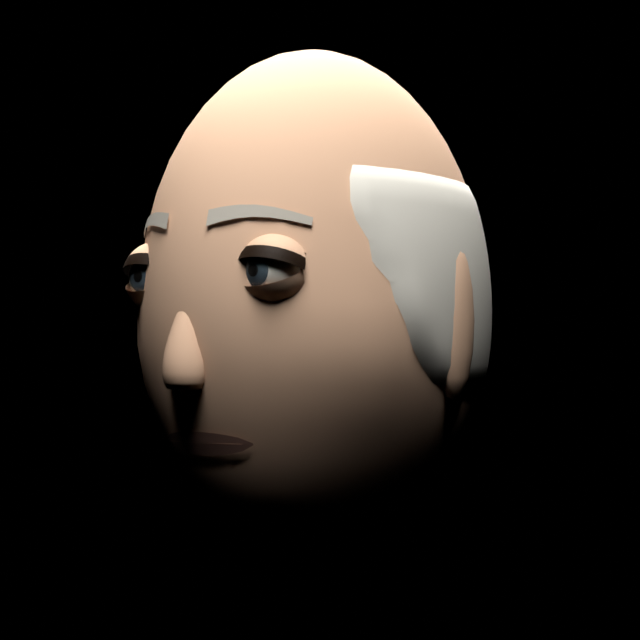
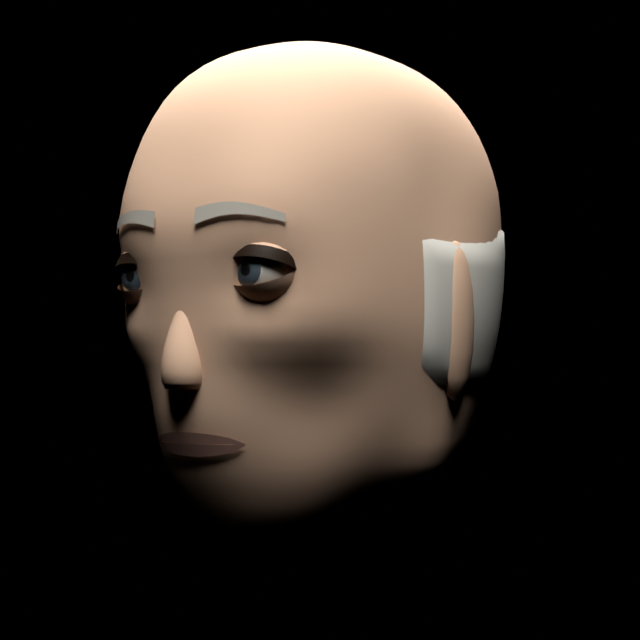
Design: head forms v4 (superellipsoid skull, anatomy fields, per-character features)
Claude-Session: https://claude.ai/code/session_01W37kuJaPfCxGNG6Qm9m3cN

Changed region(s): [[0.1562, 0.0625, 0.8125, 0.8125]]

diff --git a/film/design/rig/heads.py b/film/design/rig/heads.py
@@ -31,8 +31,8 @@ PALETTE = os.path.join(os.path.dirname(HERE), "palette.json")
 
 # Head ellipsoid half-sizes in metres (x half-width, y half-depth, z half-height), jaw taper, extras.
 SPEC = {
-    "NOOR":   dict(key="noor",   r=(0.074, 0.094, 0.114), jaw=0.72, chin_fwd=0.006, eye_r=0.0135, brow_th=0.0042, mouth_w=0.024, lip_th=1.0),
-    "KAI":    dict(key="kai",    r=(0.077, 0.095, 0.115), jaw=0.78, chin_fwd=0.006, eye_r=0.0135, brow_th=0.0048, mouth_w=0.025, lip_th=0.9),
+    "NOOR":   dict(key="noor",   r=(0.074, 0.094, 0.114), jaw=0.70, chin_fwd=0.006, eye_r=0.0135, brow_th=0.0042, mouth_w=0.024, lip_th=1.0),
+    "KAI":    dict(key="kai",    r=(0.077, 0.095, 0.115), jaw=0.82, chin_fwd=0.006, eye_r=0.0135, brow_th=0.0048, mouth_w=0.025, lip_th=0.9),
     "BEA":    dict(key="bea",    r=(0.079, 0.093, 0.112), jaw=0.80, chin_fwd=0.004, eye_r=0.0135, brow_th=0.0042, mouth_w=0.026, lip_th=1.15,
                   sclera="#F3F0E8", lid_ink="#0E0907", lid_albedo="#7C5642", ink_band=0.42),
     "WALTER": dict(key="walter", r=(0.071, 0.095, 0.120), jaw=0.72, chin_fwd=0.007, eye_r=0.0130, brow_th=0.0060, mouth_w=0.024, lip_th=0.75),
@@ -158,13 +158,44 @@ def _sphere(r, segs=24, rings=16, pole_y=False):
     return bm
 
 
-class Skull:
-    """Analytic head surface: an ellipsoid whose half-width tapers toward the jaw."""
+# Anatomy as smooth displacement fields on top of the base ellipsoid (metres, head-local).
+# Each entry: (x, z, sigma, push) with the centre on the face (y found on the base surface), mirrored in x
+# when x != 0. "push" moves the surface out (+) or in (-) along its normal.
+ANATOMY = [
+    (0.030, 0.030, 0.018, 0.0035),    # brow ridge
+    (0.000, 0.030, 0.012, 0.0020),    # glabella
+    (0.032, 0.008, 0.011, -0.0035),   # eye socket (shallow by design: top light)
+    (0.048, -0.012, 0.016, 0.0040),   # cheekbone
+    (0.000, -0.055, 0.020, 0.0040),   # muzzle round the mouth
+    (0.000, -0.098, 0.013, 0.0040),   # chin
+    (0.066, 0.050, 0.020, -0.0030),   # temples
+    (0.060, -0.072, 0.016, 0.0060),   # jaw angle
+    (0.032, -0.010, 0.007, 0.0012),   # under-eye fullness
+]
+CHARACTER_ANATOMY = {
+    "NOOR":   [(0.050, -0.010, 0.014, 0.0020), (0.046, -0.045, 0.014, -0.0015),   # defined cheekbones, slight hollow
+               (0.060, -0.074, 0.016, -0.0045), (0.000, -0.100, 0.012, -0.0010)],  # softer, tapered jaw and chin
+    "KAI":    [(0.045, -0.045, 0.016, 0.0020), (0.000, -0.098, 0.012, -0.0015)],   # young: full cheeks, softer chin
+    "BEA":    [(0.045, -0.040, 0.018, 0.0035), (0.032, -0.012, 0.008, 0.0022)],    # full cheeks; tired under-eyes
+    "WALTER": [(0.030, 0.030, 0.016, 0.0020), (0.046, -0.040, 0.014, -0.0040),     # heavier brow; hollow cheeks
+               (0.050, -0.088, 0.012, 0.0030), (0.032, -0.012, 0.008, 0.0018),      # jowls; under-eye bags
+               (0.000, 0.070, 0.030, 0.0015)],                                      # high forehead
+}
 
-    def __init__(self, s):
+
+class Skull:
+    """Head surface: a jaw-tapered ellipsoid plus smooth anatomical displacement fields."""
+
+    def __init__(self, s, name=None):
         self.rx, self.ry, self.rz = s["r"]
         self.jaw = s["jaw"]
         self.chin_fwd = s["chin_fwd"]
+        self.fields = []
+        for (x, z, sig, push) in ANATOMY + CHARACTER_ANATOMY.get(name, []):
+            for sx in ((1, -1) if x else (1,)):
+                cx = sx * x
+                c = Vector((cx, self._base_front_y(cx, z), z))
+                self.fields.append((c, sig, push))
 
     def taper(self, zn):  # zn = z / rz in [-1, 1]
         if zn >= -0.15:
@@ -172,22 +203,57 @@ class Skull:
         t = min(1.0, (-0.15 - zn) / 0.85)
         return 1.0 - (1.0 - self.jaw) * t * t
 
-    def shape(self, v):
-        """Map a unit-sphere point to the head surface."""
+    def _base(self, v):
+        # superellipsoid: squarer than an egg (boxier cranium, flatter face plane, firmer jaw)
+        zz = v.z
+        pw = 2.0 + 0.75 * max(0.0, min(1.0, (zz + 0.2) / 0.6)) + 0.3 * max(0.0, min(1.0, (-zz - 0.3) / 0.4))
+        sc = (abs(v.x) ** pw + abs(v.y) ** pw + abs(v.z) ** pw) ** (-1.0 / pw)
+        v = v * sc
         zn = v.z
         x = v.x * self.rx * self.taper(zn)
         y = v.y * self.ry
         if zn < -0.5 and v.y > 0:
             y += self.chin_fwd * (-0.5 - zn) * 2 * v.y
-        if -0.45 < zn < 0.1 and v.y > 0.2:  # cheekbones
-            x *= 1.0 + 0.05 * math.cos((zn + 0.175) / 0.275 * math.pi / 2)
-        return Vector((x, y, v.z * self.rz))
+        z = v.z * self.rz
+        # jaw underside and the back of the jaw: flatten the bottom of the egg toward the neck
+        if z < -0.07 and y < 0.05:
+            k = min(1.0, (0.05 - y) / 0.06)
+            z = z + (-0.07 - z) * 0.6 * k
+        if y < 0 and z > -0.05:  # fuller cranium behind
+            y *= 1.06
+        return Vector((x, y, z))
 
-    def front_y(self, x, z):
+    def _base_front_y(self, x, z):
         zn = max(-0.999, min(0.999, z / self.rz))
         w = self.rx * self.taper(zn)
         q = 1 - (x / w) ** 2 - zn ** 2
         return self.ry * math.sqrt(max(q, 0.0))
+
+    def shape(self, v):
+        """Map a unit-sphere point to the head surface."""
+        p = self._base(v)
+        n = Vector((p.x / self.rx ** 2, p.y / self.ry ** 2, p.z / self.rz ** 2)).normalized()
+        d = 0.0
+        for c, sig, push in self.fields:
+            q = (p - c).length_squared
+            if q < 9 * sig * sig:
+                d += push * math.exp(-q / (2 * sig * sig))
+        return p + n * d
+
+    def front_y(self, x, z):
+        """y of the (displaced) face surface at (x, z), found by iterating on the sphere."""
+        c = Vector((x / self.rx, 0.0, max(-0.99, min(0.99, z / self.rz))))
+        for _ in range(30):
+            c.x = max(-0.99, min(0.99, c.x))
+            c.z = max(-0.99, min(0.99, c.z))
+            c.y = math.sqrt(max(1e-6, 1 - c.x * c.x - c.z * c.z))
+            p = self.shape(c)
+            ex, ez = x - p.x, z - p.z
+            if abs(ex) < 1e-6 and abs(ez) < 1e-6:
+                break
+            c.x += ex / (self.rx * self.taper(c.z)) * 0.9
+            c.z += ez / self.rz * 0.9
+        return self.shape(c).y
 
 
 def _strip(skull, pts_xz, width_fn, lift=0.0015, normal_push=0.0):
@@ -242,7 +308,7 @@ def build_head(name, collection=None, mats=None, pass_face=1, pass_hair=2):
     M = default_materials(name)
     if mats:
         M.update({k: v for k, v in mats.items() if v is not None})
-    skull = Skull(s)
+    skull = Skull(s, name)
     root = bpy.data.objects.new(f"{name}_HEADRIG", None)
     root.empty_display_type = "SPHERE"
     root.empty_display_size = 0.12
@@ -254,7 +320,7 @@ def build_head(name, collection=None, mats=None, pass_face=1, pass_hair=2):
     set_expression(root, NEUTRAL[name])
 
     # skull
-    bm = _sphere(1.0, 32, 22)
+    bm = _sphere(1.0, 64, 44)
     for v in bm.verts:
         v.co = skull.shape(v.co)
     _mesh_obj(f"{name}_HD_SKULL", bm, [M["skin"]], collection, root, pass_index=pass_face)
@@ -504,8 +570,8 @@ def _hair(name, s, skull, M, root, collection, ph):
     elif name == "WALTER":
         # bald on top: a band of white hair round the sides and back
         side = hairline(1.5, -0.32, -0.4)
-        top = hairline(0.5, 0.5, 0.55)
-        shell(lambda c: min(side(c), -top(c)) if abs(math.atan2(c.x, c.y)) > 0.3 * math.pi else -1.0, lambda c: 1.025, "HAIR_SIDES")
+        top = hairline(0.30, 0.26, 0.40)
+        shell(lambda c: min(side(c), -top(c), (abs(math.atan2(c.x, c.y)) / math.pi - 0.42) * 1.5), lambda c: 1.02, "HAIR_SIDES", band=0.05)
 
 
 # ------------------------------------------------------------------ placing and keying

diff --git a/film/design/rig/README.md b/film/design/rig/README.md
@@ -27,6 +27,10 @@ set_expression(root, {"smile": 0.45, "lid_low": 0.0}, frame=240, from_neutral=Tr
 - Un-suffixed names (`lid_up`, `smile`, `brow_in`...) set both sides.
 - `from_neutral=True` resets every control to that character's neutral first, the same way the sheets read.
 
+## Forms (v4, M4: "less mannequin")
+
+The skull is a **superellipsoid** (a boxier cranium, flatter face plane and firmer jaw than an egg) plus smooth **anatomy fields** (`ANATOMY`, `CHARACTER_ANATOMY`): brow ridge, glabella, shallow sockets, cheekbones, muzzle, chin, temples, jaw angle and under-eye fullness, with the jaw underside flattened toward the neck. Per character: Noor has defined cheekbones and a softer, tapered jaw; Kai has full young cheeks and a soft chin; Bea has full cheeks and tired under-eyes; Walter has a heavy brow, hollow cheeks, jowls, a high forehead and only a band of hair. Every feature (eyes, brows, lips) sits on the displaced surface (`Skull.front_y` solves for it).
+
 ## Known limits (previs, not final)
 
 `naso` is a control with no geometry yet. The mouth interior only shows when `jaw > 0` (there's no hole in the skin), and the lips are thin ribbons. Hair is simple caps. The final heads are for the modellers. This rig fixes **proportions, eye placement and size, lid behaviour, and the control set**.

diff --git a/film/STATUS.md b/film/STATUS.md
@@ -56,3 +56,4 @@ Append-only log. Newest at the bottom. Format: `- [role] what happened (file)`
 - [dp] Director approved option (b): "I can't —"/"Say it." overlap restored; 7.9 follows the pair, 7.10 8.5 s later in silence held on Bea (shot 49 now 426.5–440); no cue times changed (camera/)
 - [screenwriter] Scratch voice: "I can't —"/"Say it." overlap restored, 7.9 tick follows (per Director/DP) (previs/voice/)
 - [dp] dialogue[] in cues.json now read directly from the Screenwriter's scratch-voice-lines.json (58 lines); all checks pass incl. no tick/relight on a line (camera/)
+- [designer] M4 face refinement v4 (less mannequin): superellipsoid skull + anatomy fields (brow ridge, sockets, cheekbones, muzzle, chin, jaw angle/underside, temples), per-character age/feature fields; features sit on the displaced surface (design/rig/heads.py, renders/)
